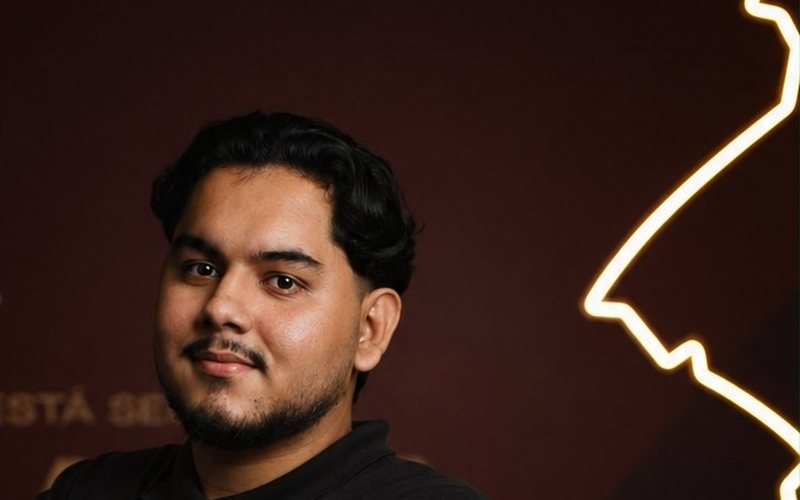
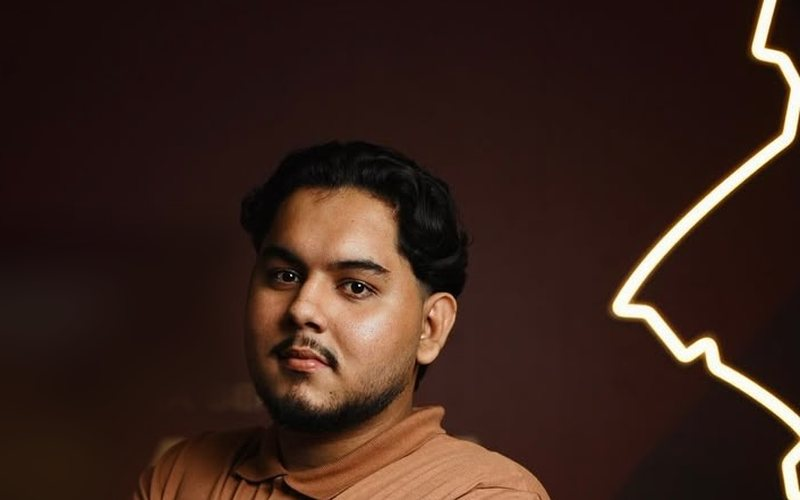
Volta a camisa preta para a foto do topo; terracota vai para o card da Consultoria
Claude-Session: https://claude.ai/code/session_011Ju1c6CxHtptzmreeGQxAb

diff --git a/index.html b/index.html
@@ -57,7 +57,7 @@
     <div class="hero-photo" id="heroPhoto">
       <picture>
         <source srcset="assets/img/hero.webp" type="image/webp">
-        <img id="heroImg" src="assets/img/hero.jpg" alt="Mateus Oliveira de braços cruzados, camisa polo terracota" width="800" height="1000" fetchpriority="high">
+        <img id="heroImg" src="assets/img/hero.jpg" alt="Mateus Oliveira de braços cruzados, camisa polo preta" width="800" height="1000" fetchpriority="high">
       </picture>
       <div class="tiles" id="tiles" aria-hidden="true"></div>
       <div class="hero-fade" aria-hidden="true"></div>
@@ -86,7 +86,7 @@
 
     <article class="card card-photo card-primary reveal">
       <div class="card-media">
-        <picture><source srcset="assets/img/diagnostico.webp" type="image/webp"><img src="assets/img/diagnostico.jpg" alt="Mateus de braços cruzados, camisa polo preta" loading="lazy" width="800" height="500"></picture>
+        <picture><source srcset="assets/img/diagnostico.webp" type="image/webp"><img src="assets/img/diagnostico.jpg" alt="Mateus de braços cruzados, camisa polo terracota" loading="lazy" width="800" height="500"></picture>
         <span class="badge"><svg class="ic"><use href="#i-briefcase"/></svg> Para empresas</span>
       </div>
       <div class="card-body">
